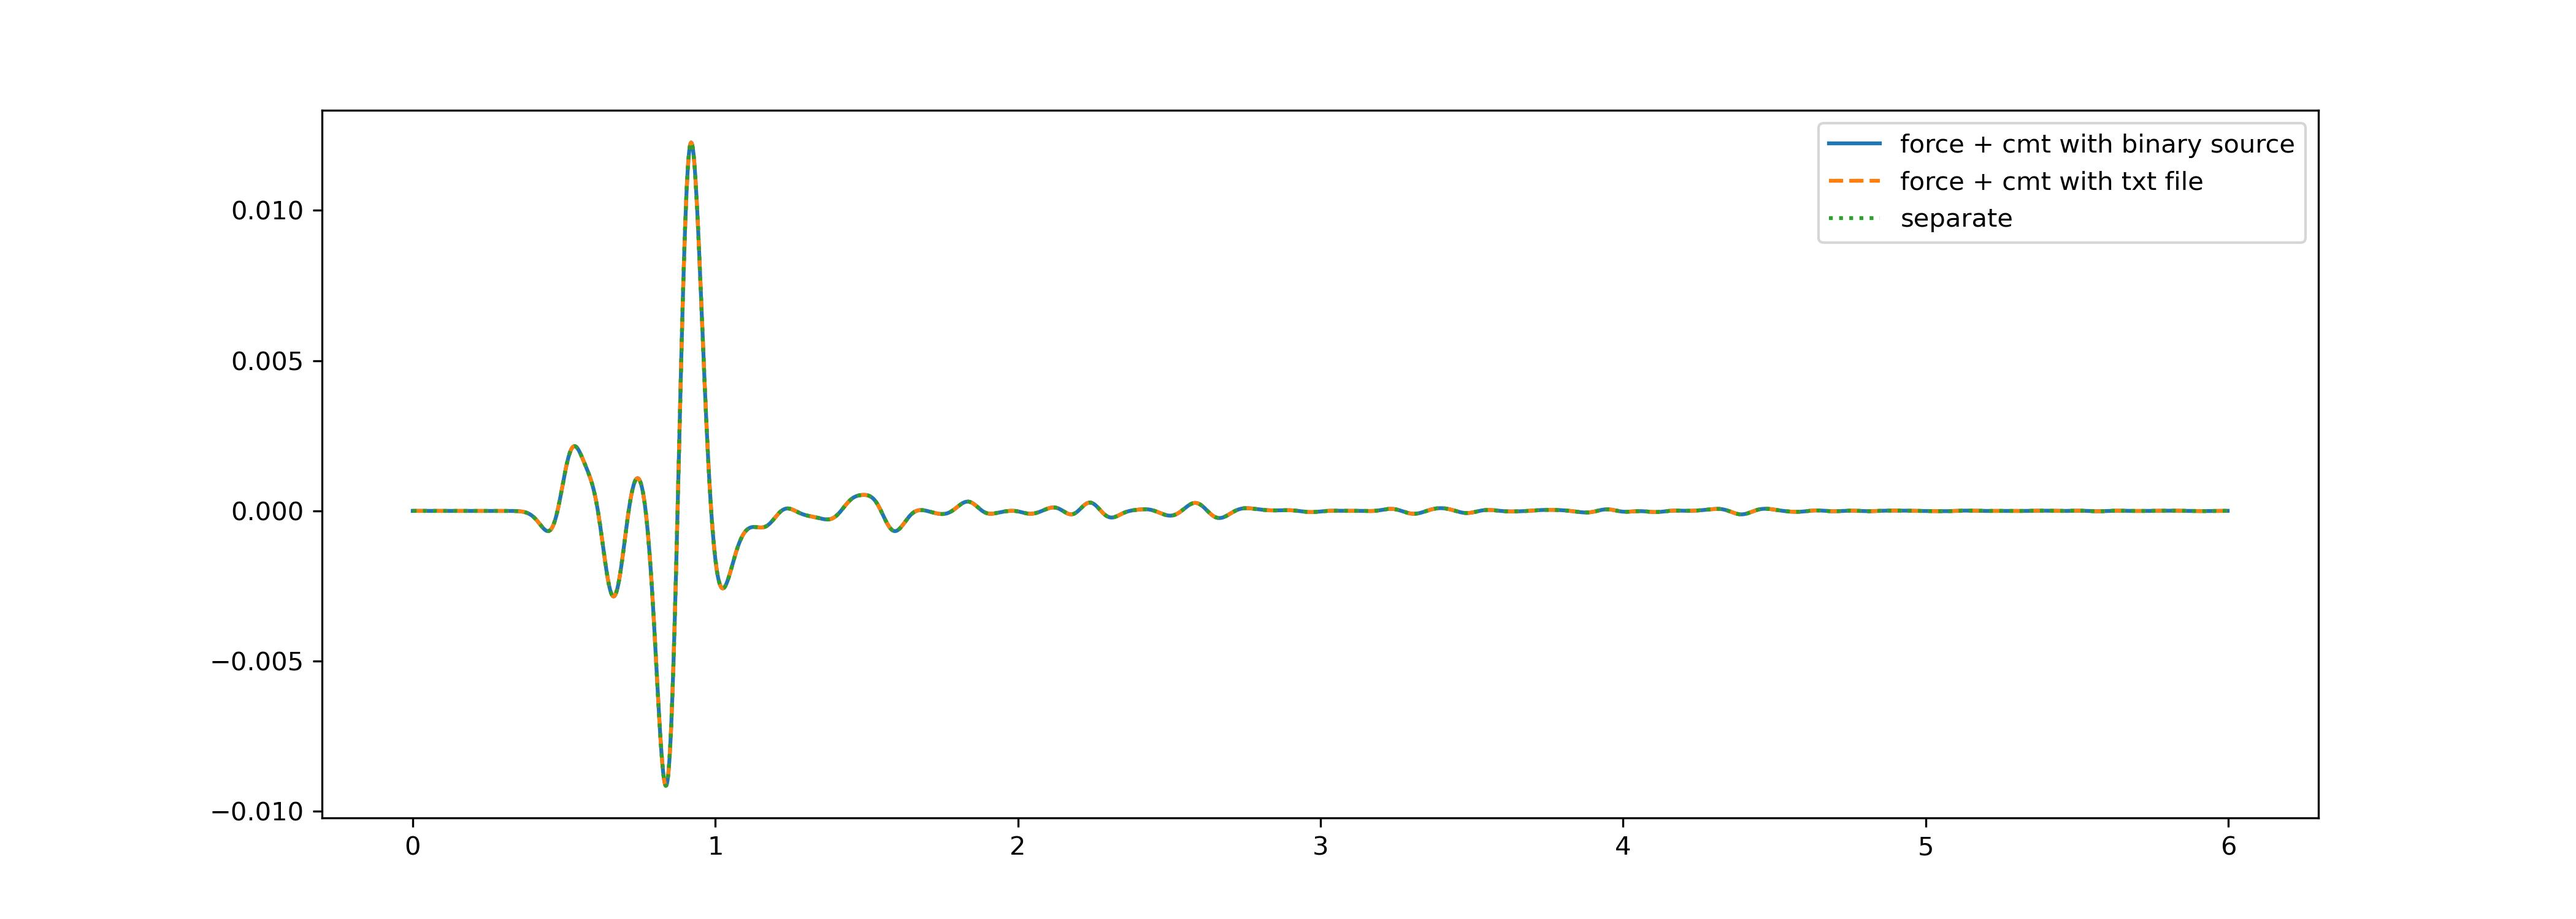
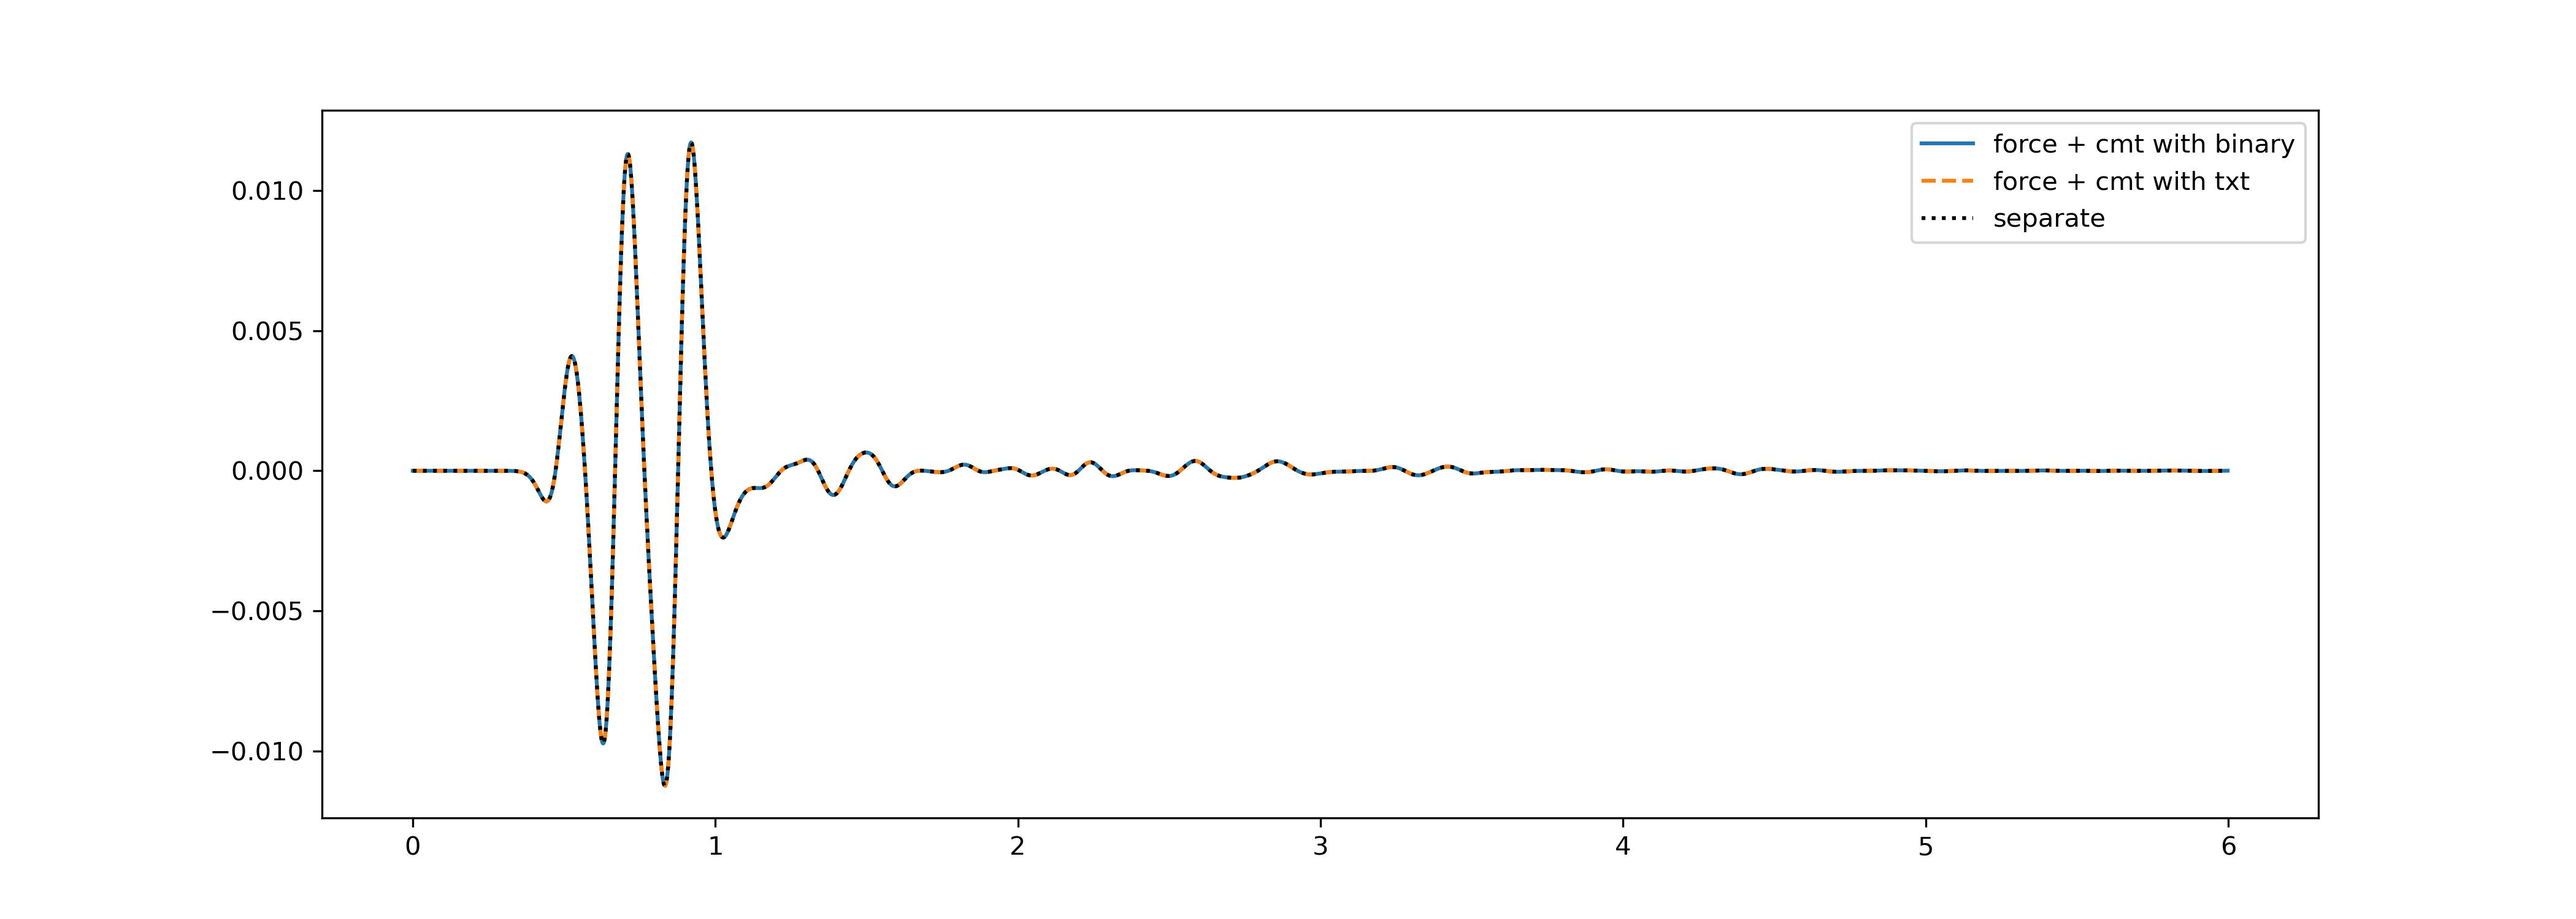
cmt + force gpu support

diff --git a/EXAMPLES/applications/cmt_force_hybrid/step4_plot.py b/EXAMPLES/applications/cmt_force_hybrid/step4_plot.py
@@ -9,12 +9,12 @@ d_bin = np.loadtxt(f"OUTPUT_FILES.bin/{stnm}")
 # cmt + force separately
 d_sep = np.loadtxt(f"OUTPUT_FILES.force/{stnm}")
 d_sep1 = np.loadtxt(f"OUTPUT_FILES.moment/{stnm}")
-d_sep[:,1] += d_sep1[:,1]
+d_sum = d_sep[:,1] + d_sep1[:,1]
 
 # plot
 plt.figure(1,figsize=(14,5))
-plt.plot(d_bin[:,0],d_bin[:,1],label='force + cmt with binary source')
-plt.plot(d_txt[:,0],d_txt[:,1],label='force + cmt with txt file',ls='--')
-plt.plot(d_sep[:,0],d_sep[:,1],label='separate',ls=':')
+plt.plot(d_bin[:,0],d_bin[:,1],label='force + cmt with binary')
+plt.plot(d_txt[:,0],d_txt[:,1],label='force + cmt with txt',ls='--')
+plt.plot(d_sep[:,0],d_sum,label='separate',ls=':',color='k')
 plt.legend()
 plt.savefig("seismo.jpg",dpi=300)
